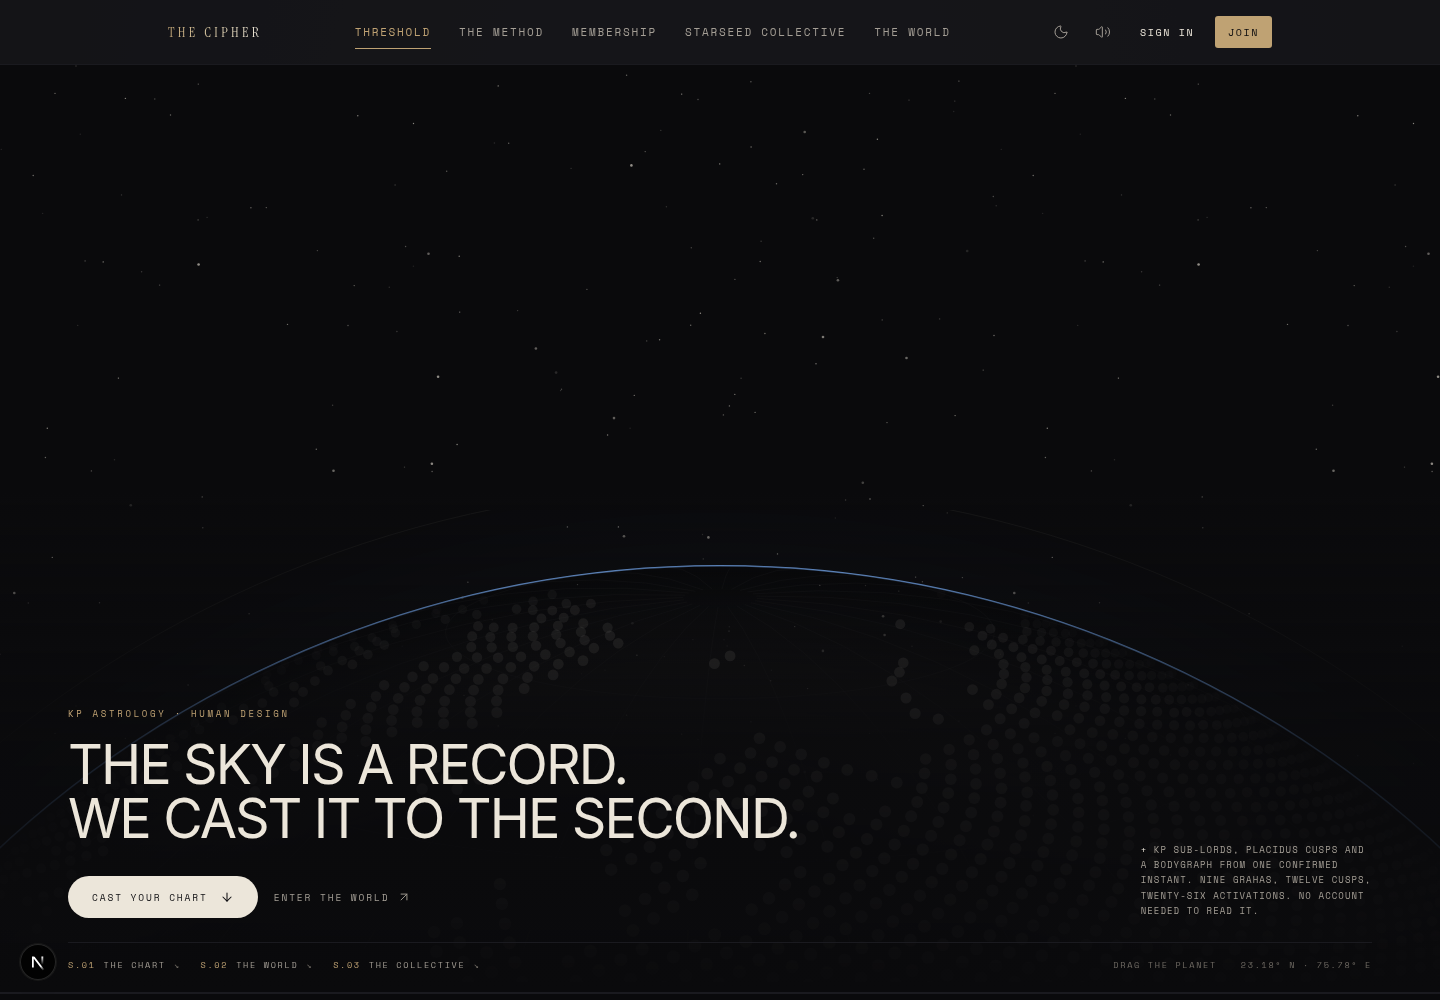
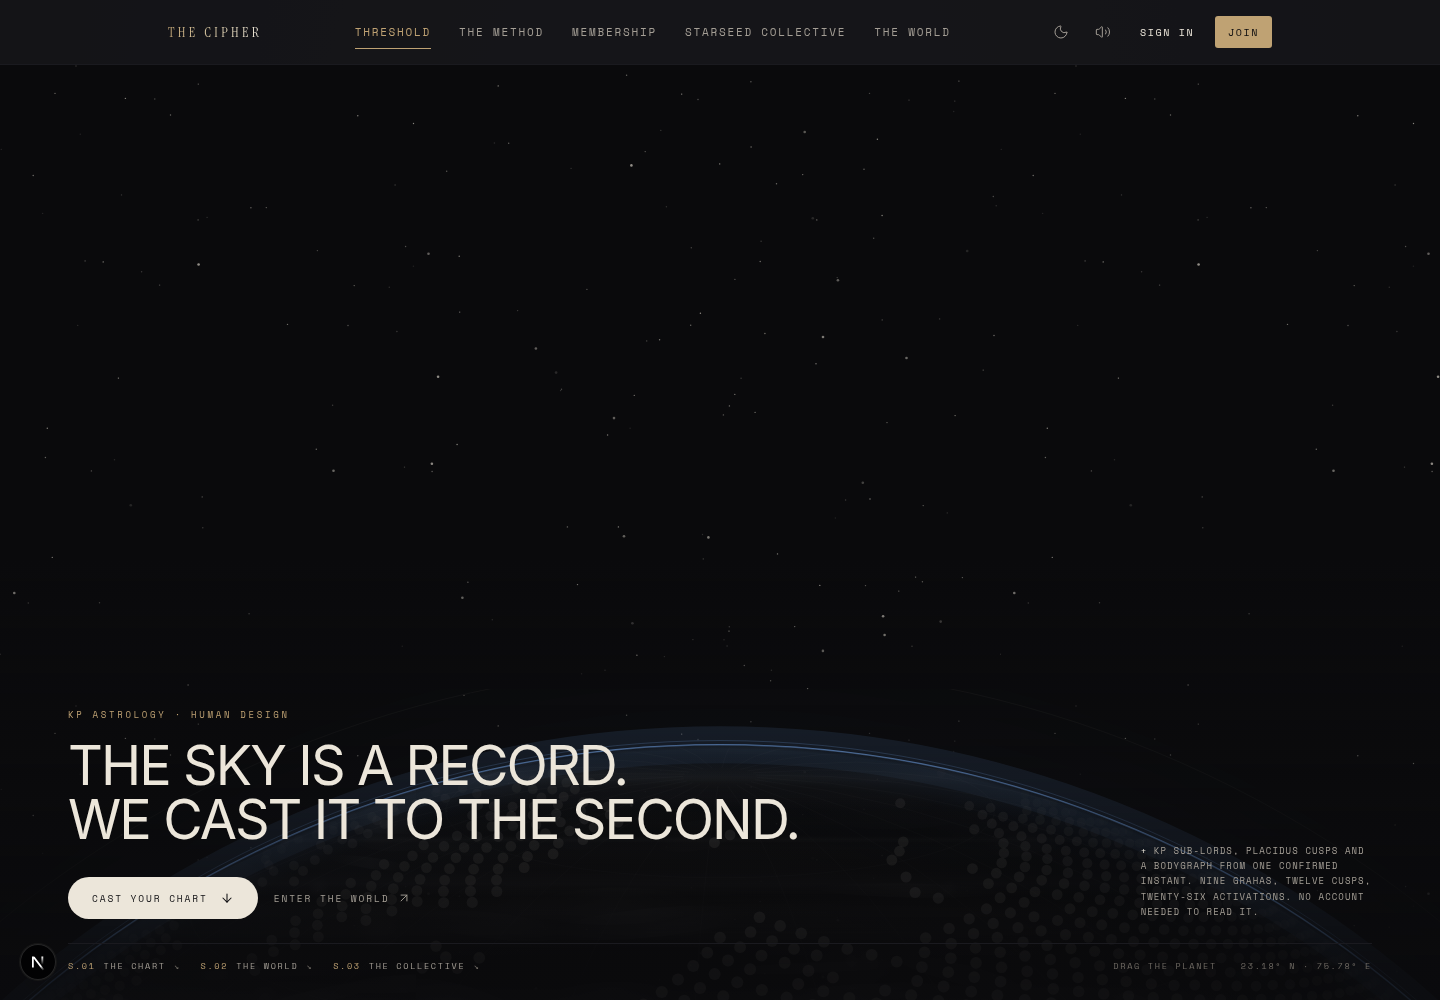
Give the hero room to move
The scroll had nothing to act on: the hero was one viewport tall, so it left
before any camera move could happen. The section is 130svh now, and the camera
is driven by page scroll rather than by the section's own progress:

- planet scales 1 → 1.42 and drops 16% across the first ~900px
- the title lifts 140px and fades out over 420px
- the sky dissolves to zero by ~1150px, so the instrument arrives out of it
- the intake is opaque and sits above the sky

typecheck, lint and the production build are green.

diff --git a/src/components/cipher/cinematic-hero.tsx b/src/components/cipher/cinematic-hero.tsx
@@ -60,16 +60,15 @@ export function CinematicHero() {
     }
   }, []);
 
-  // The camera: the horizon grows and drops as the page leaves the hero.
-  const { scrollYProgress } = useScroll({
-    target: sceneRef,
-    offset: ["start start", "end start"],
-  });
-  const cameraScale = useTransform(scrollYProgress, [0, 1], [1, 1.38]);
-  const cameraY = useTransform(scrollYProgress, [0, 1], ["0%", "22%"]);
-  const titleY = useTransform(scrollYProgress, [0, 0.6], [0, -120]);
-  const titleFade = useTransform(scrollYProgress, [0, 0.5], [1, 0]);
-  const haze = useTransform(scrollYProgress, [0.5, 1], [0, 1]);
+  // The camera is the whole page's scroll, because the sky is pinned: it stays
+  // while the content rides over it, then dissolves as the instrument arrives.
+  const { scrollY } = useScroll();
+  const cameraScale = useTransform(scrollY, [0, 900], [1, 1.42]);
+  const cameraDrop = useTransform(scrollY, [0, 900], ["0%", "16%"]);
+  const skyFade = useTransform(scrollY, [0, 620, 1150], [1, 0.85, 0]);
+  const titleY = useTransform(scrollY, [0, 620], [0, -140]);
+  const titleFade = useTransform(scrollY, [0, 420], [1, 0]);
+  const haze = useTransform(scrollY, [420, 1000], [0, 1]);
 
   // Pointer parallax, spring-damped, a few degrees at most.
   const px = useMotionValue(0);
@@ -80,7 +79,7 @@ export function CinematicHero() {
   return (
     <section
       ref={sceneRef}
-      className="relative isolate flex min-h-[calc(100svh-4.5rem)] flex-col overflow-hidden border-b border-hairline bg-void"
+      className="relative isolate flex min-h-[130svh] flex-col border-b border-hairline"
       onPointerMove={(event) => {
         if (reduced) return;
         const rect = event.currentTarget.getBoundingClientRect();
@@ -92,15 +91,15 @@ export function CinematicHero() {
         py.set(0);
       }}
     >
-      {/* Stars come up first. */}
-      <div className="intro-fade absolute inset-0" style={{ animationDelay: "0.25s" }}>
-        <Starfield />
-      </div>
+      {/* The sky is pinned to the viewport; the page scrolls across it. */}
+      <div className="pointer-events-none absolute inset-0 z-0 overflow-hidden bg-void">
+        <div className="intro-fade absolute inset-0" style={{ animationDelay: "0.25s" }}>
+          <Starfield />
+        </div>
 
-      {/* The camera wrapper holds the planet for the whole scroll. */}
       <motion.div
         aria-hidden="true"
-        style={reduced ? undefined : { y: cameraY, scale: cameraScale }}
+        style={{ y: cameraDrop, scale: cameraScale, opacity: skyFade }}
         className="absolute inset-0"
       >
         <div className="pointer-events-none absolute left-1/2 top-[52%] aspect-square w-[230vw] max-w-[2800px] -translate-x-1/2 lg:top-[48%] lg:w-[155vw]">
@@ -122,21 +121,25 @@ export function CinematicHero() {
         </div>
       </motion.div>
 
-      {/* Air, thickening as the camera passes through it. */}
-      <motion.div
-        aria-hidden="true"
-        style={reduced ? undefined : { opacity: haze }}
-        className="pointer-events-none absolute inset-0 z-20 bg-[radial-gradient(120%_70%_at_50%_120%,rgba(124,180,255,0.10),transparent_60%)]"
-      />
-      <div
-        aria-hidden="true"
-        className="pointer-events-none absolute inset-x-0 bottom-0 z-10 h-[62%] bg-gradient-to-t from-void via-void/88 to-transparent"
-      />
+        {/* Air, thickening as the camera passes through it. */}
+        <motion.div
+          aria-hidden="true"
+          style={{ opacity: haze }}
+          className="pointer-events-none absolute inset-0 z-20 bg-[radial-gradient(120%_70%_at_50%_120%,rgba(124,180,255,0.10),transparent_60%)]"
+        />
+        <div
+          aria-hidden="true"
+          className="pointer-events-none absolute inset-x-0 bottom-0 z-10 h-[62%] bg-gradient-to-t from-void via-void/88 to-transparent"
+        />
+      </div>
+
+      {/* The title card rides over the pinned sky. */}
+      <div className="relative z-10 flex min-h-[calc(100svh-4.5rem)] flex-col justify-end">
 
       {/* Type. */}
       <motion.div
         style={reduced ? undefined : { y: titleY, opacity: titleFade }}
-        className="relative z-40 mx-auto flex w-full max-w-[1400px] flex-1 flex-col justify-end px-6 pb-5 pt-6 lg:px-12"
+        className="mx-auto flex w-full max-w-[1400px] flex-1 flex-col justify-end px-6 pb-5 pt-6 lg:px-12"
       >
         <div className="grid items-end gap-8 lg:grid-cols-[minmax(0,1.6fr)_minmax(0,1fr)] lg:gap-16">
           <div>
@@ -214,6 +217,7 @@ export function CinematicHero() {
           </div>
         </div>
       </motion.div>
+      </div>
     </section>
   );
 }

diff --git a/src/components/cipher/hero-intake.tsx b/src/components/cipher/hero-intake.tsx
@@ -78,7 +78,7 @@ export function HeroIntake() {
 
       <section
         id="cast"
-        className="relative scroll-mt-20 border-t border-hairline px-6 py-20 lg:px-12 lg:py-28"
+        className="relative z-10 scroll-mt-20 border-t border-hairline bg-void px-6 py-20 lg:px-12 lg:py-28"
       >
         <div className="mx-auto grid w-full max-w-[1400px] gap-12 lg:grid-cols-[minmax(0,0.9fr)_minmax(0,1.1fr)] lg:gap-20">
           <div>
